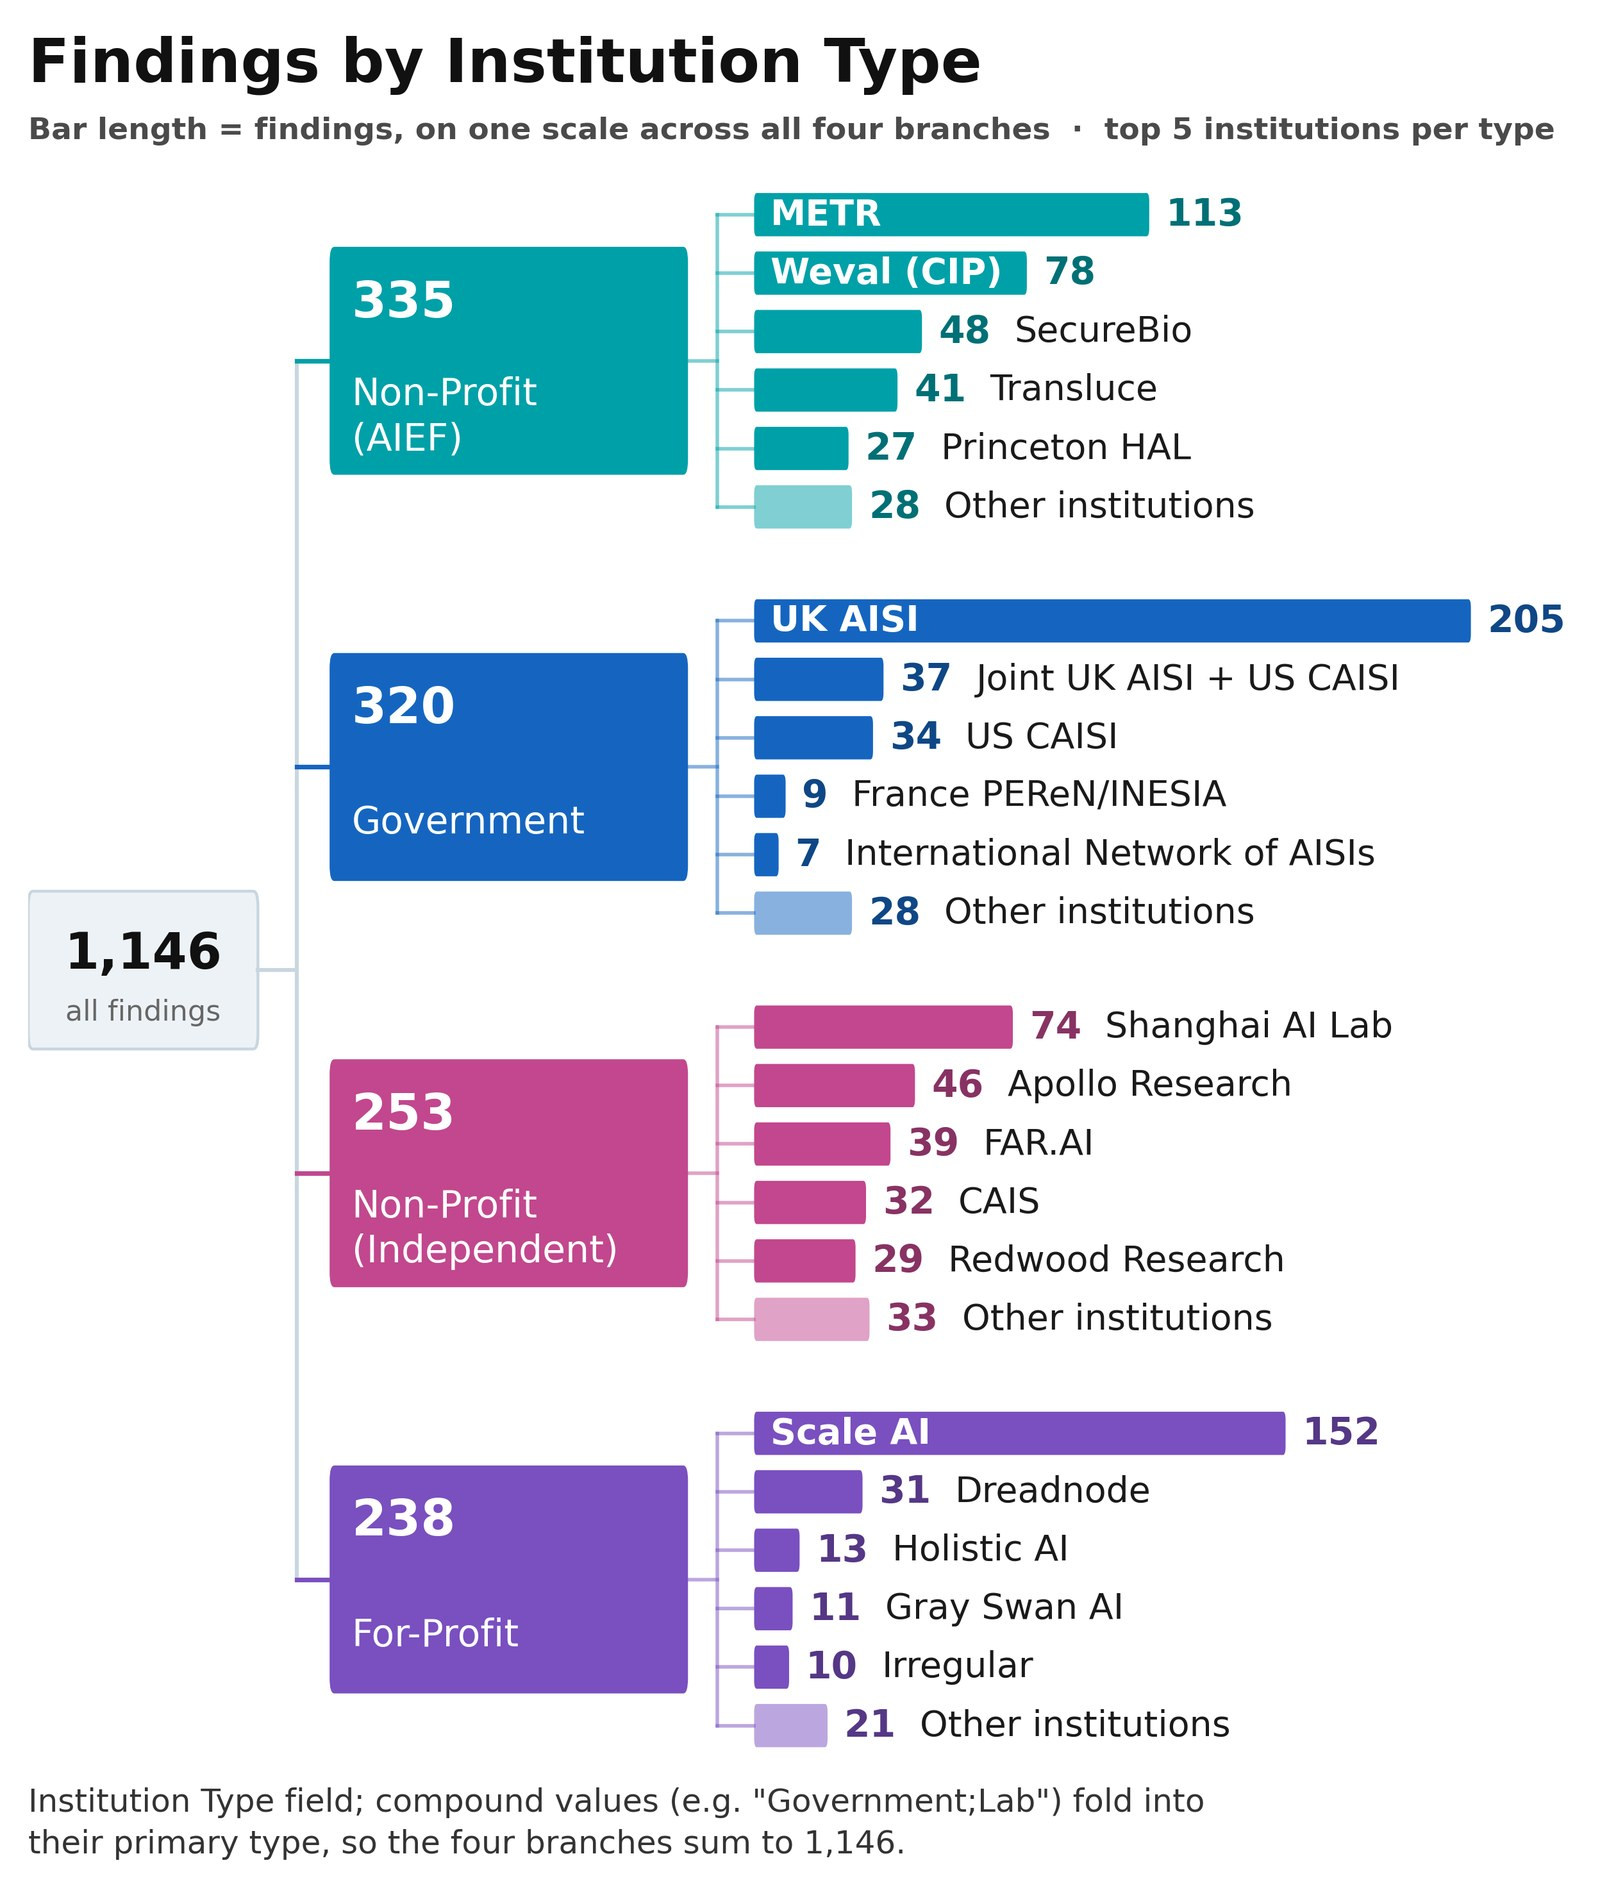
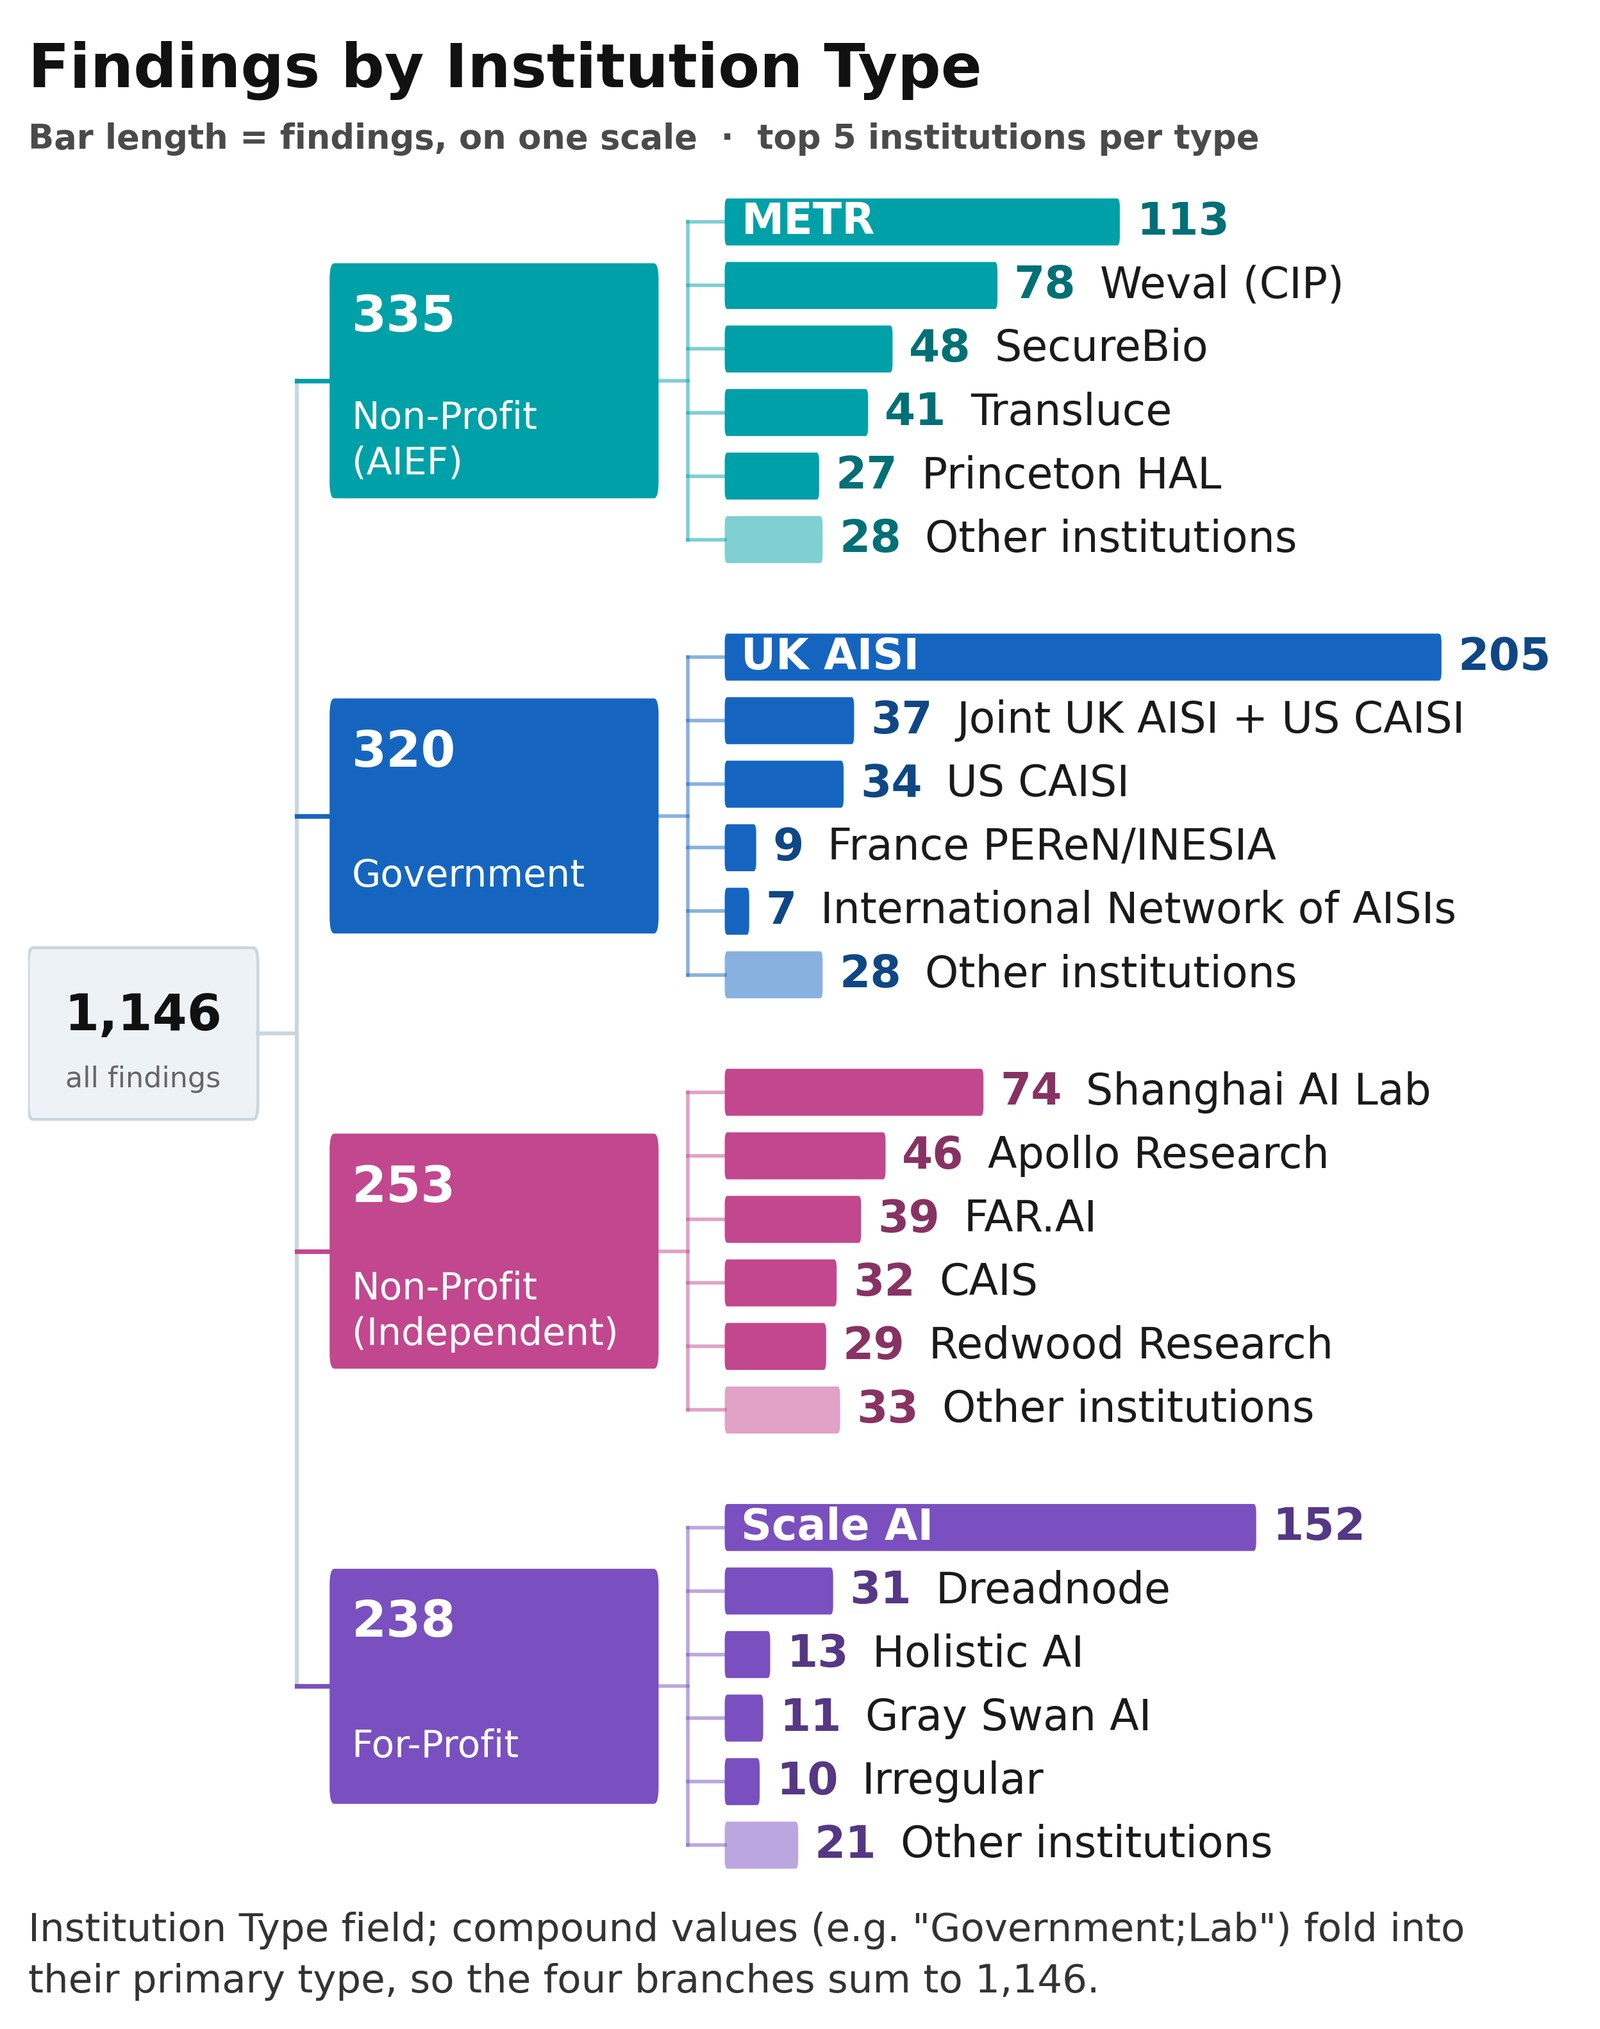
Enlarge the type on the three figures that read smallest at page scale
Figure 02: developer names 23 -> 27, x-label 23 -> 26, legend 21 -> 25, footnote
19 -> 23. The row annotation carried "(Tier A n . C1 n)" at the same weight as
the total, eleven times over, and three of those rows read "(Tier A 0 . C1 0)"
on developers with no Tier A findings at all. The total now stands alone in
bold with the breakdown after it in lighter grey, dropped where there is no
Tier A share to break down. The x-limit solver now takes the maximum over every
row, since the widest annotation and the longest bar need not be the same row.

Figure 13: leaf names 20 -> 24, counts 21 -> 25, footer 18 -> 22, subtitle
17 -> 19 and shortened to fit. Paid for out of internal spacing - the branch
node is 1.6 units narrower, both connector columns move left with it, and the
node height and inter-group gap come down - so the figure is no wider than
before. An outside leaf label had no overflow guard; it has one now, which is
what caught the branch node being cut too far.

Figure 26: definitions 15 -> 19, worked examples 16 -> 20, column headers
13 -> 16, subtitle 19 -> 22, scale arrow 12 -> 15. The level name fits itself to
its block rather than every name taking the size the shortest can carry, since
"Acknowledged" is four characters longer than any other and ran past the edge.

diff --git a/research/scripts/fig_developer.py b/research/scripts/fig_developer.py
@@ -63,30 +63,60 @@ ax.barh(y, [tot[k] for k in order], color=BLUE, height=0.66, zorder=3, label="Al
 ax.barh(y, [tierA[k] for k in order], color=RED, height=0.66, zorder=4,
         label="of which Tier A (accountability set)")
 mx = max(tot.values())
-for i, k in enumerate(order):
-    ax.text(tot[k] + mx * 0.012, i, f"{tot[k]}   (Tier A {tierA[k]} · C1 {c1[k]})",
-            va="center", ha="left", fontsize=21, fontweight="bold", color="#1A1A1A")
-ax.set_yticks(y); ax.set_yticklabels(order, fontsize=23); ax.invert_yaxis()
-# Sizing the x-limit so the longest annotation fits is self-referential if done in data units:
-# the data-unit width of a fixed-pixel string depends on the very limit being chosen. Solve it in
-# pixels instead. With an axes W px wide showing L data units, the label starts at (mx/L)*W and
-# needs T px, so the fit condition is (mx/L)*W + gap + T <= W, giving L >= mx*W/(W - gap - T).
-longest = max((f"{tot[k]}   (Tier A {tierA[k]} · C1 {c1[k]})" for k in order), key=len)
+FS_TOT, FS_SUB, FS_TICK = 27, 22, 27
+# Every row carried "(Tier A n · C1 n)" at the same weight as its total, eleven times over, and
+# three of those rows read "(Tier A 0 · C1 0)" — a parenthesis that says nothing, on developers
+# with no Tier A findings at all. The total now stands alone in bold; the breakdown follows it in
+# a lighter grey, and is dropped where there is no Tier A share to break down.
+def _sub(k):
+    return f"Tier A {tierA[k]} · C1 {c1[k]}" if tierA[k] else ""
+
 fig.canvas.draw()
 rend = fig.canvas.get_renderer()
-probe = ax.text(0, 0, longest, fontsize=21, fontweight="bold", alpha=0)
-T = probe.get_window_extent(renderer=rend).width
-probe.remove()
+
+def _px(s_, fs, weight="normal"):
+    if not s_:
+        return 0.0
+    t = ax.text(0, 0, s_, fontsize=fs, fontweight=weight, alpha=0)
+    w = t.get_window_extent(renderer=rend).width
+    t.remove()
+    return w
+
+# Sizing the x-limit so the longest annotation fits is self-referential if done in data units:
+# the data-unit width of a fixed-pixel string depends on the very limit being chosen. Solve it in
+# pixels instead. With an axes W px wide showing L data units, a bar of value v ends at (v/L)*W
+# and its annotation needs T px, so L >= v*W/(W - gap - T) — taken over every row, not just the
+# longest string, because the widest annotation and the longest bar need not be the same row.
 W = ax.get_window_extent(renderer=rend).width
-gap = 0.014 * W
-ax.set_xlim(0, mx * W / max(W - gap - T, 1.0) * 1.02)
+GAP1 = 0.012 * W          # bar end -> total
+GAP2 = 0.016 * W          # total -> breakdown
+need = []
+for k in order:
+    T = _px(str(tot[k]), FS_TOT, "bold")
+    if _sub(k):
+        T += GAP2 + _px(_sub(k), FS_SUB)
+    need.append(tot[k] * W / max(W - GAP1 - T, 1.0))
+ax.set_xlim(0, max(need) * 1.02)
+
+inv = ax.transData.inverted()
+def _du(px):
+    return abs(inv.transform((px, 0))[0] - inv.transform((0, 0))[0])
+
+for i, k in enumerate(order):
+    x = tot[k] + _du(GAP1)
+    ax.text(x, i, f"{tot[k]}", va="center", ha="left",
+            fontsize=FS_TOT, fontweight="bold", color="#1A1A1A")
+    if _sub(k):
+        ax.text(x + _du(_px(str(tot[k]), FS_TOT, "bold") + GAP2), i, _sub(k),
+                va="center", ha="left", fontsize=FS_SUB, color="#5A5A5A")
+ax.set_yticks(y); ax.set_yticklabels(order, fontsize=FS_TICK); ax.invert_yaxis()
 ax.grid(axis="y", visible=False)
-ax.set_xlabel("Findings", fontsize=23, labelpad=10)
+ax.set_xlabel("Findings", fontsize=26, labelpad=10)
 # The title is a label, not a sentence: "Whose models the findings concern" editorialised where
 # every other figure in the set simply names its axes.
 ax.set_title(f"Findings by Model Developer (n={len(R):,})",
              pad=24, fontsize=33)
-ax.legend(fontsize=21, loc="lower right", frameon=False)
+ax.legend(fontsize=25, loc="lower right", frameon=False)
 
 p = os.path.join(OUT, "02_findings_per_model_developer.png")
 # One line, below the axes in figure coordinates. Inside the axes it printed on top of the x
@@ -95,7 +125,7 @@ p = os.path.join(OUT, "02_findings_per_model_developer.png")
 fig.text(0.5, -0.02,
          f"A finding naming several developers counts once per developer, so bars sum to more "
          f"than {len(R):,}.",
-         fontsize=19, color="#555555", va="top", ha="center", transform=fig.transFigure)
+         fontsize=23, color="#555555", va="top", ha="center", transform=fig.transFigure)
 fig.savefig(p, bbox_inches="tight", pad_inches=0.3)
 plt.close(fig)
 print(f"wrote {p}")

diff --git a/research/scripts/tree.py b/research/scripts/tree.py
@@ -82,25 +82,25 @@ VMAX = max(v for _, _, leaves in groups for _, v, _ in leaves)
 NLEAF = sum(len(lv) for _, _, lv in groups)
 
 # ---- geometry, in row units; one row unit is UNIT_IN inches tall ---------------------------
-UNIT_IN = 0.46
-GAP = 0.95                    # between the last leaf of a branch and the first of the next
-TITLE = 2.70                  # title block above the first heading
+UNIT_IN = 0.50
+GAP = 0.85                    # between the last leaf of a branch and the first of the next
+TITLE = 2.55                  # title block above the first heading
 FOOT = 1.95                   # footnote below the last bar — two lines at FS_FOOT, not one at 16pt
 BH = 0.74                     # bar height, in row units
 RX, RW = 0.0, 12.5            # root node
 SPINE = 14.6                  # vertical connector, root out to the branches
-TX, TW = 16.4, 19.5           # branch node — the type name wraps at its bracket to fit this width
-NODE_H = 3.9                  # branch node height — room for a count line plus a two-line name
-LSPINE = 37.5                 # vertical connector, branch out to its leaves
-BX, BW = 39.5, 39.0           # bars start here; BW is the length of a full-scale bar
-FS_NAME, FS_NUM = 20, 21
+TX, TW = 16.4, 17.9           # branch node — the type name wraps at its bracket to fit this width
+NODE_H = 3.7                  # branch node height — room for a count line plus a two-line name
+LSPINE = 35.9                 # vertical connector, branch out to its leaves
+BX, BW = 37.9, 39.0           # bars start here; BW is the length of a full-scale bar
+FS_NAME, FS_NUM = 24, 25
 FS_BIG = 28                   # the count line inside a root or branch node
 FS_BRANCH = 21                # the branch's type name — sized to read, not as a caption
 FS_SMALL = 16                 # "all findings", under the root count
-FS_FOOT = 18                  # the footnote. Was 16 — the only element on the figure below 19, and
+FS_FOOT = 22                  # the footnote. Was 16 — the only element on the figure below 19, and
                               # illegible once the canvas was scaled to a page. Held large here and
                               # split across two lines, which is what FOOT is widened for.
-FS_TITLE, FS_SUB = 34, 17     # both were cut with the canvas: at the old 48/26 the title ran past
+FS_TITLE, FS_SUB = 34, 19     # both were cut with the canvas: at the old 48/26 the title ran past
                               # the right edge of a 14.5in figure and bbox_inches="tight" then
                               # padded the width straight back out again.
 XMAX = 84.0                   # the drawing ends near 80 data units; carrying the old 100 kept an
@@ -136,8 +136,7 @@ def text_w(s, fs, weight="normal"):
 ax.text(0, 0.92, "Findings by Institution Type",
         fontsize=FS_TITLE, color="#111111", fontweight="bold", va="baseline", ha="left")
 # Kept short on purpose: a full sentence at this weight runs wider than the figure.
-_sub = (f"Bar length = findings, on one scale across all four branches  ·  "
-        f"top {TOPN} institutions per type")
+_sub = f"Bar length = findings, on one scale  ·  top {TOPN} institutions per type"
 ax.text(0, 1.90, _sub, fontsize=FS_SUB, color="#4A4A4A", fontweight="bold",
         va="baseline", ha="left")
 assert text_w("Findings by Institution Type", FS_TITLE, "bold") <= XMAX, "title overflows the canvas"
@@ -206,8 +205,9 @@ for (k, cnt, leaves, y0, y1), mid in zip(blocks, mids):
             ax.text(BX + 0.9, ly, nm, ha="left", va="center", fontsize=FS_NAME,
                     color="white", fontweight="bold")
         else:
-            ax.text(BX + w + 0.9 + text_w(str(v), FS_NUM, "bold") + 1.3, ly, nm,
-                    ha="left", va="center", fontsize=FS_NAME, color="#1A1A1A")
+            lx = BX + w + 0.9 + text_w(str(v), FS_NUM, "bold") + 1.3
+            ax.text(lx, ly, nm, ha="left", va="center", fontsize=FS_NAME, color="#1A1A1A")
+            assert lx + text_w(nm, FS_NAME) <= XMAX, f"leaf label runs off the canvas: {nm}"
 
 _foot_l1 = 'Institution Type field; compound values (e.g. "Government;Lab") fold into'
 assert text_w(_foot_l1, FS_FOOT) <= XMAX, "footnote line overflows the canvas"

diff --git a/research/scripts/fig_action_level.py b/research/scripts/fig_action_level.py
@@ -109,7 +109,7 @@ def render(fig_h):
             fontsize=34, fontweight="bold", color=INK, va="baseline")
     ax.text(2.0, em(34) * 0.84 + em(19) * 1.70,
             "Action Level — the strength of the located company response, with a Tier A example "
-            "of each.", fontsize=19, color=SOFT, va="baseline")
+            "of each.", fontsize=22, color=SOFT, va="baseline")
 
     BX, BW = 2.0, 25.0        # level block: name and meaning
     FX, FW = 29.5, 33.5       # the finding
@@ -118,9 +118,9 @@ def render(fig_h):
     GAP = u(0.11)
 
     head = em(34) * 0.84 + em(19) * 1.70 + u(0.34)
-    ax.text(FX, head, "THE FINDING", fontsize=13, fontweight="bold", color=FAINT,
+    ax.text(FX, head, "THE FINDING", fontsize=16, fontweight="bold", color=FAINT,
             va="baseline", zorder=3)
-    ax.text(CX, head, "WHAT THE COMPANY DID", fontsize=13, fontweight="bold", color=FAINT,
+    ax.text(CX, head, "WHAT THE COMPANY DID", fontsize=16, fontweight="bold", color=FAINT,
             va="baseline", zorder=3)
     top = head + u(0.16)
 
@@ -128,26 +128,32 @@ def render(fig_h):
     for name, desc, fid, finding, company in LEVELS:
         col = ACTION[name]
         # measure all three columns, then give the row the height the tallest one needs
-        nb = len(wrap(desc, 15, "normal", BW - 3.4))
-        hb = em(26) * 1.08 + em(15) * 1.32 * nb + 2 * PADB
-        ht = max(len(wrap(finding, 16, "normal", FW)),
-                 len(wrap(company, 16, "normal", CW))) * em(16) * 1.32 + 2 * PADB
+        # "Acknowledged" is four characters longer than any other level name and ran past the
+        # right edge of its block once the names were enlarged. Fit the name to the block instead
+        # of setting every name to the size the shortest one can carry.
+        fs_name = 28
+        while fs_name > 18 and tw(name, fs_name, "bold") > BW - 3.0:
+            fs_name -= 0.5
+        nb = len(wrap(desc, 19, "normal", BW - 3.4))
+        hb = em(fs_name) * 1.08 + em(19) * 1.32 * nb + 2 * PADB
+        ht = max(len(wrap(finding, 20, "normal", FW)),
+                 len(wrap(company, 20, "normal", CW))) * em(20) * 1.32 + 2 * PADB
         h = max(hb, ht, u(0.85))
 
         ax.add_patch(FancyBboxPatch((BX, y), BW, h,
                                     boxstyle="round,pad=0,rounding_size=0.55",
                                     facecolor=col, edgecolor="none", zorder=1, clip_on=False))
-        block_h = em(26) * 1.08 + em(15) * 1.32 * nb
-        by = y + (h - block_h) / 2 + em(26) * 0.78
-        ax.text(BX + 1.5, by, name, fontsize=26, fontweight="bold", color="white",
+        block_h = em(fs_name) * 1.08 + em(19) * 1.32 * nb
+        by = y + (h - block_h) / 2 + em(fs_name) * 0.78
+        ax.text(BX + 1.5, by, name, fontsize=fs_name, fontweight="bold", color="white",
                 va="baseline", zorder=3)
-        para(BX + 1.5, by + em(26) * 1.00, desc, 15, "normal", "#FFFFFF", BW - 3.0, 1.32)
+        para(BX + 1.5, by + em(fs_name) * 1.00, desc, 19, "normal", "#FFFFFF", BW - 3.0, 1.32)
 
         # centre each column's own block of lines: the row is as tall as its tallest element,
         # and dumping the shorter columns at the top is what read as wasted space
         for x, s, wdt in ((FX, finding, FW), (CX, company, CW)):
-            n = len(wrap(s, 16, "normal", wdt))
-            para(x, y + (h - n * em(16) * 1.32) / 2 + em(16) * 0.80, s, 16, "normal", INK,
+            n = len(wrap(s, 20, "normal", wdt))
+            para(x, y + (h - n * em(20) * 1.32) / 2 + em(20) * 0.80, s, 20, "normal", INK,
                  wdt, 1.32)
         y += h + GAP
 
@@ -155,7 +161,7 @@ def render(fig_h):
                 arrowprops=dict(arrowstyle="-|>", color="#C3CAD2", lw=3.0,
                                 shrinkA=0, shrinkB=0, mutation_scale=24))
     ax.text(0.15, (top + y) / 2, "W E A K E R", rotation=90, ha="center", va="center",
-            fontsize=12, color=FAINT, fontweight="bold")
+            fontsize=15, color=FAINT, fontweight="bold")
     return fig, (y - GAP) * fig_h / 100.0
 
 
